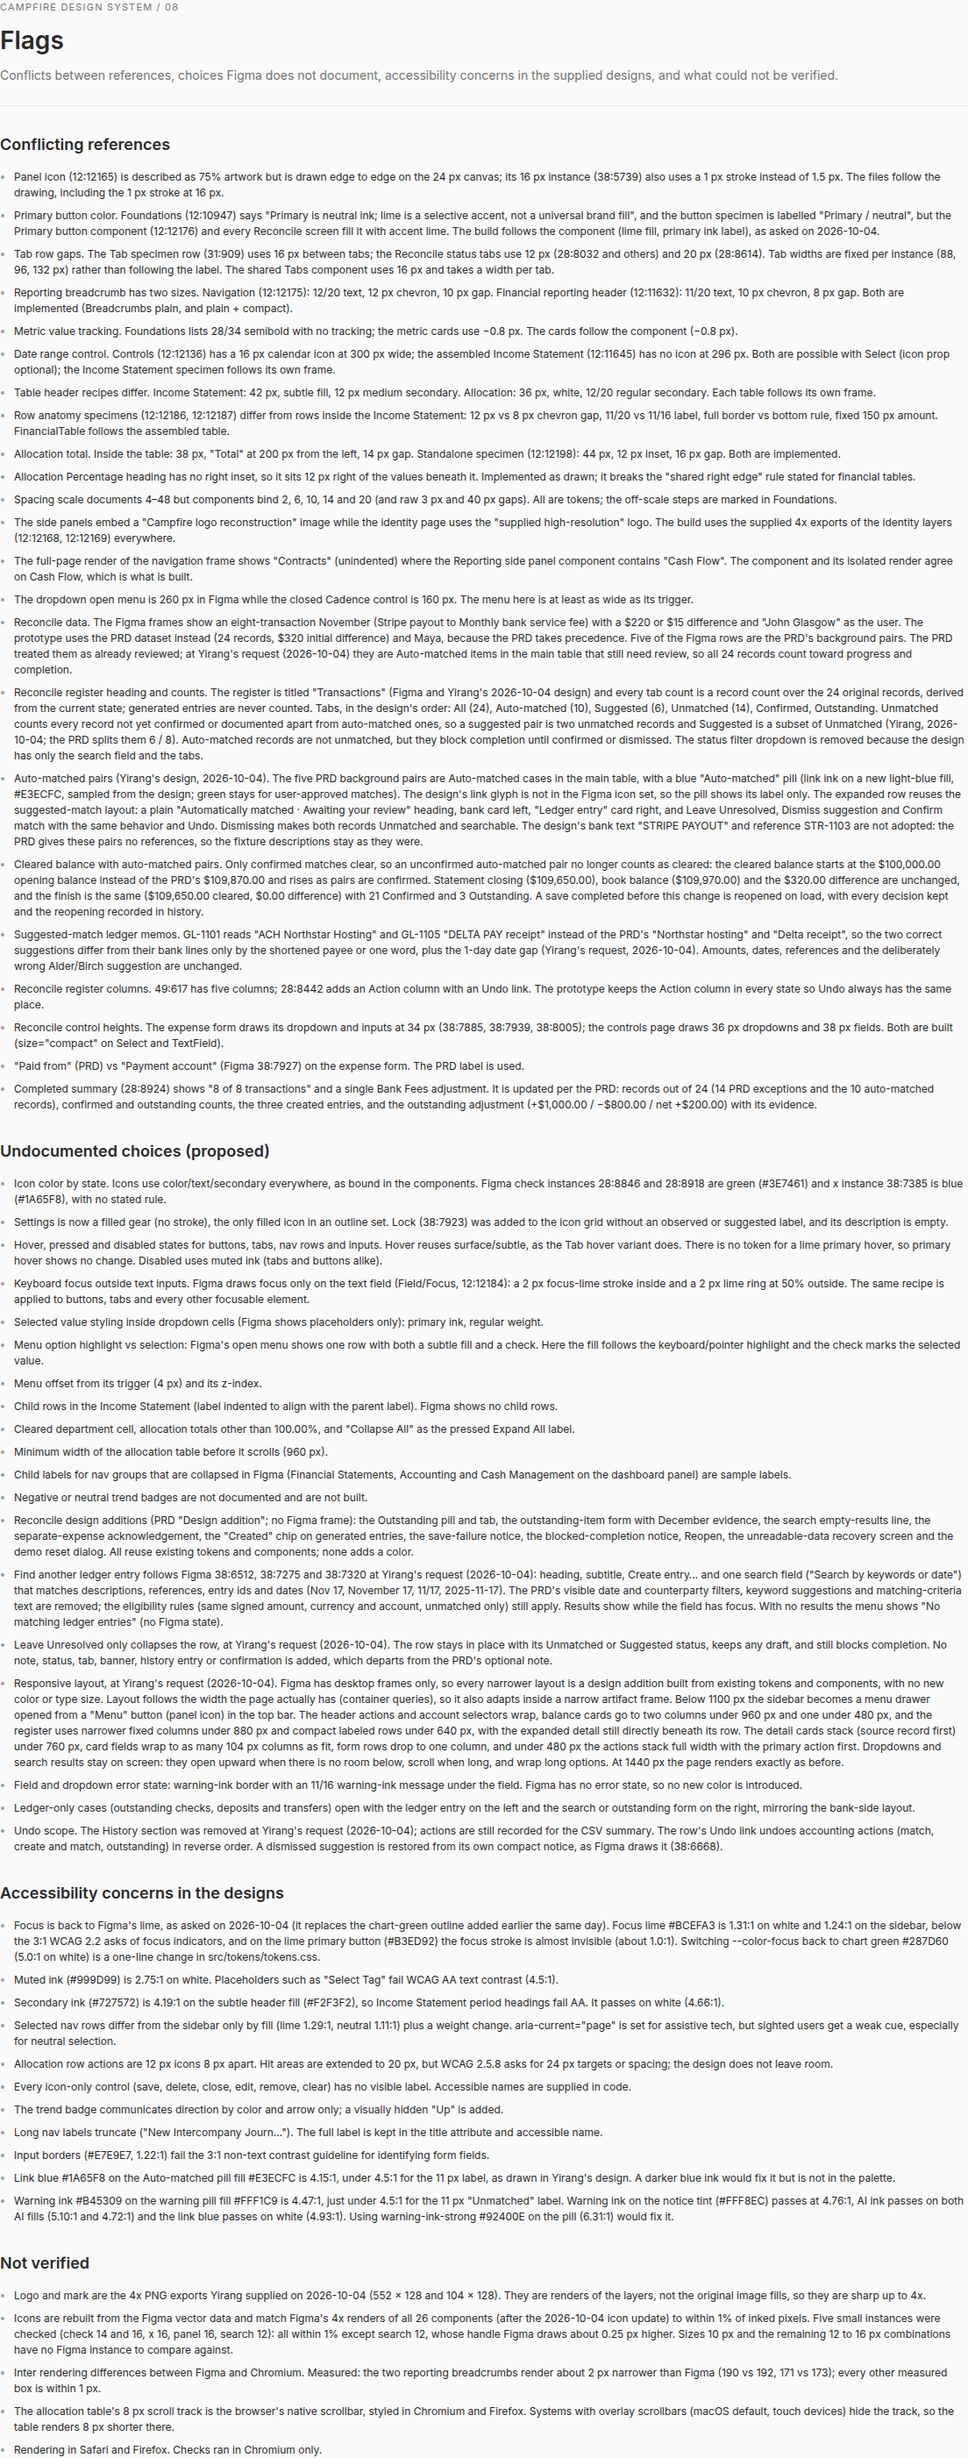
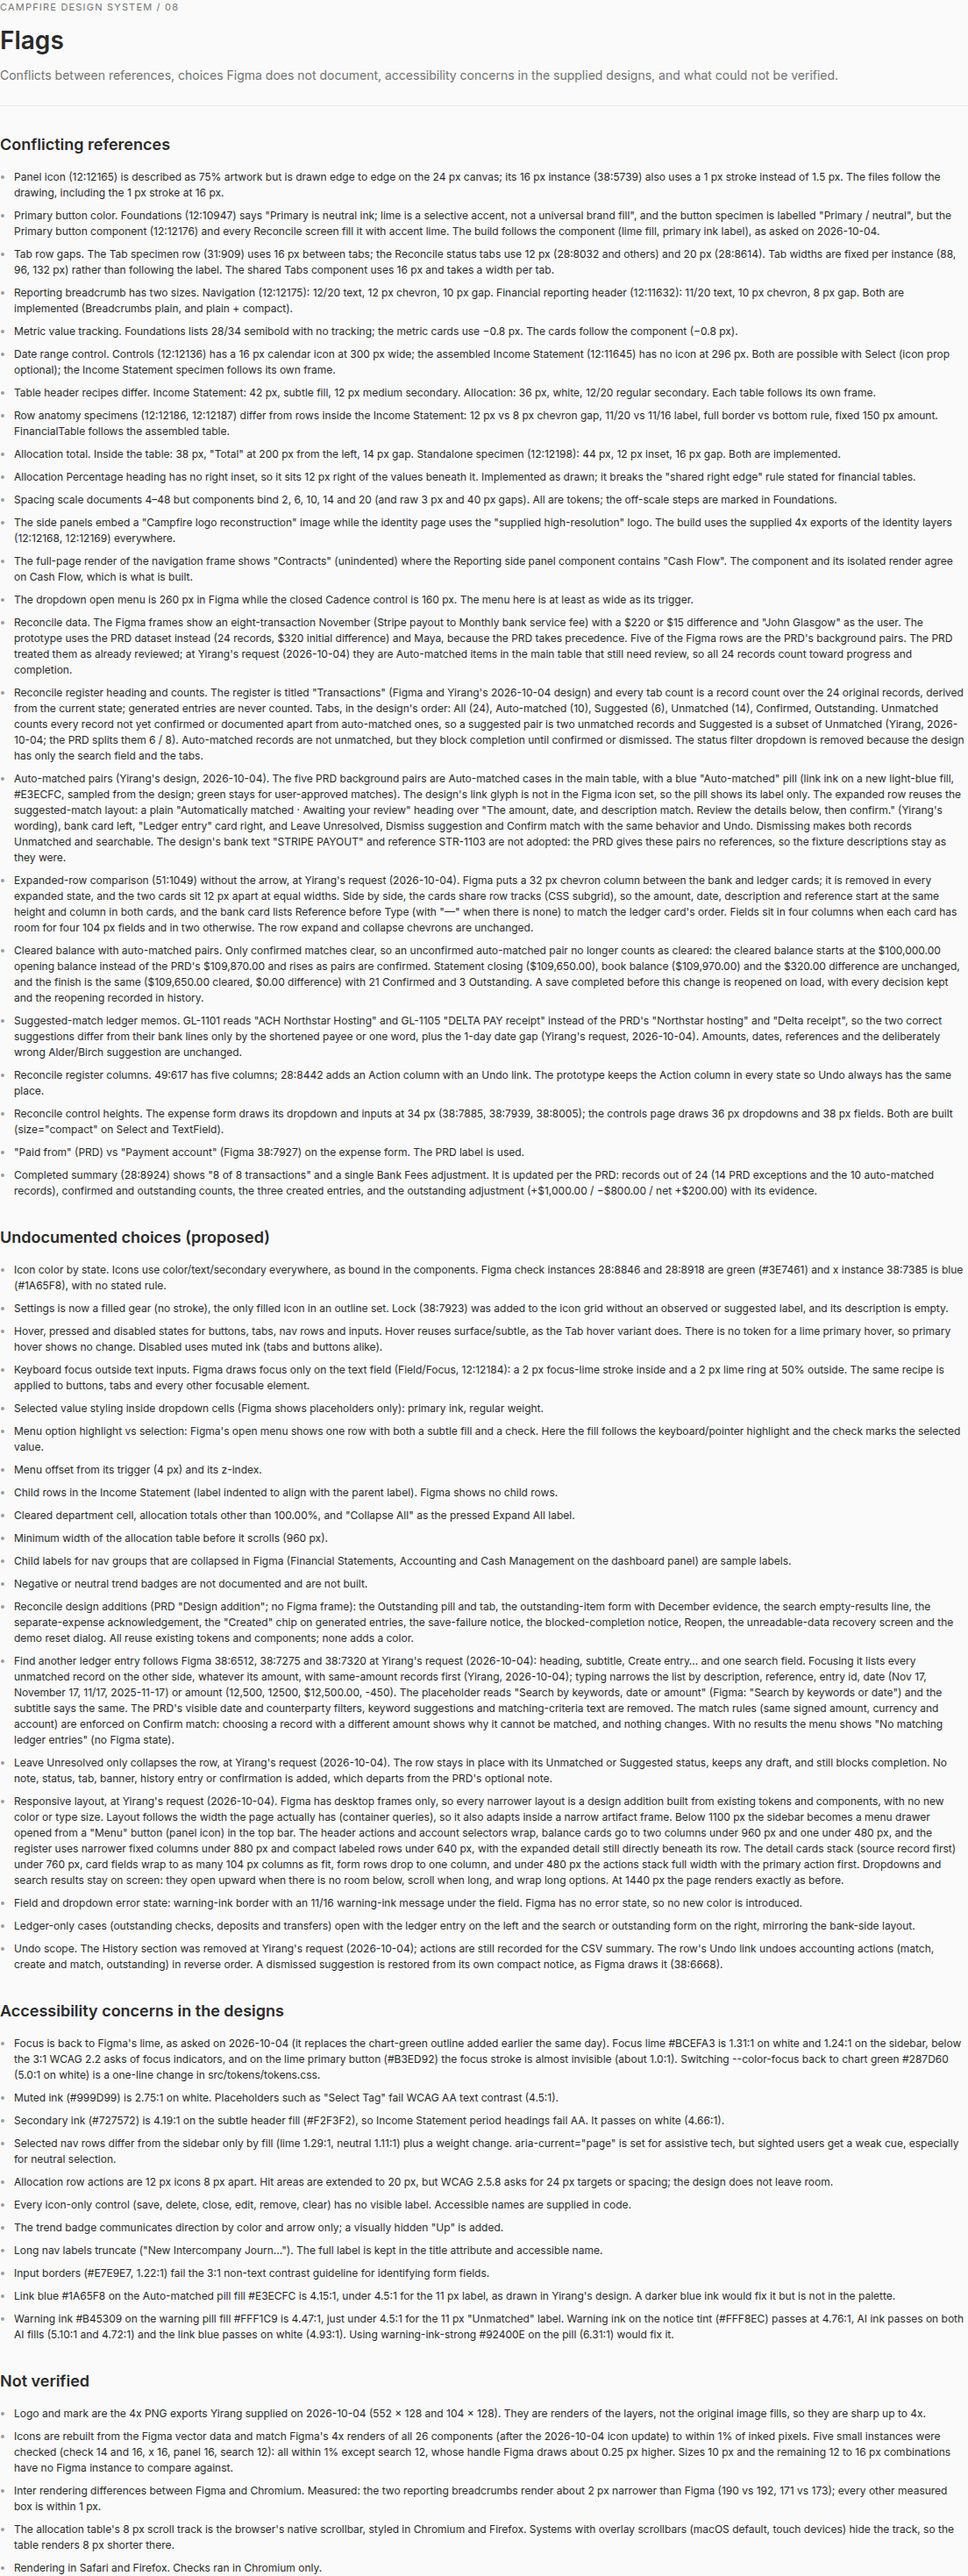
Reword the auto-matched introduction
Auto-matched rows now read "The amount, date, and description match.
Review the details below, then confirm." under the existing heading.

Claude-Session: https://claude.ai/code/session_01SjmuwsjrTUXEVeGEdoK4rk

Changed region(s): [[0.0, 0.0, 1.0, 1.0]]

diff --git a/src/showcase/flags.ts b/src/showcase/flags.ts
@@ -17,7 +17,7 @@ export const CONFLICTS = [
   'The dropdown open menu is 260 px in Figma while the closed Cadence control is 160 px. The menu here is at least as wide as its trigger.',
   'Reconcile data. The Figma frames show an eight-transaction November (Stripe payout to Monthly bank service fee) with a $220 or $15 difference and "John Glasgow" as the user. The prototype uses the PRD dataset instead (24 records, $320 initial difference) and Maya, because the PRD takes precedence. Five of the Figma rows are the PRD\'s background pairs. The PRD treated them as already reviewed; at Yirang\'s request (2026-10-04) they are Auto-matched items in the main table that still need review, so all 24 records count toward progress and completion.',
   'Reconcile register heading and counts. The register is titled "Transactions" (Figma and Yirang\'s 2026-10-04 design) and every tab count is a record count over the 24 original records, derived from the current state; generated entries are never counted. Tabs, in the design\'s order: All (24), Auto-matched (10), Suggested (6), Unmatched (14), Confirmed, Outstanding. Unmatched counts every record not yet confirmed or documented apart from auto-matched ones, so a suggested pair is two unmatched records and Suggested is a subset of Unmatched (Yirang, 2026-10-04; the PRD splits them 6 / 8). Auto-matched records are not unmatched, but they block completion until confirmed or dismissed. The status filter dropdown is removed because the design has only the search field and the tabs.',
-  'Auto-matched pairs (Yirang\'s design, 2026-10-04). The five PRD background pairs are Auto-matched cases in the main table, with a blue "Auto-matched" pill (link ink on a new light-blue fill, #E3ECFC, sampled from the design; green stays for user-approved matches). The design\'s link glyph is not in the Figma icon set, so the pill shows its label only. The expanded row reuses the suggested-match layout: a plain "Automatically matched · Awaiting your review" heading, bank card left, "Ledger entry" card right, and Leave Unresolved, Dismiss suggestion and Confirm match with the same behavior and Undo. Dismissing makes both records Unmatched and searchable. The design\'s bank text "STRIPE PAYOUT" and reference STR-1103 are not adopted: the PRD gives these pairs no references, so the fixture descriptions stay as they were.',
+  'Auto-matched pairs (Yirang\'s design, 2026-10-04). The five PRD background pairs are Auto-matched cases in the main table, with a blue "Auto-matched" pill (link ink on a new light-blue fill, #E3ECFC, sampled from the design; green stays for user-approved matches). The design\'s link glyph is not in the Figma icon set, so the pill shows its label only. The expanded row reuses the suggested-match layout: a plain "Automatically matched · Awaiting your review" heading over "The amount, date, and description match. Review the details below, then confirm." (Yirang\'s wording), bank card left, "Ledger entry" card right, and Leave Unresolved, Dismiss suggestion and Confirm match with the same behavior and Undo. Dismissing makes both records Unmatched and searchable. The design\'s bank text "STRIPE PAYOUT" and reference STR-1103 are not adopted: the PRD gives these pairs no references, so the fixture descriptions stay as they were.',
   'Expanded-row comparison (51:1049) without the arrow, at Yirang\'s request (2026-10-04). Figma puts a 32 px chevron column between the bank and ledger cards; it is removed in every expanded state, and the two cards sit 12 px apart at equal widths. Side by side, the cards share row tracks (CSS subgrid), so the amount, date, description and reference start at the same height and column in both cards, and the bank card lists Reference before Type (with "—" when there is none) to match the ledger card\'s order. Fields sit in four columns when each card has room for four 104 px fields and in two otherwise. The row expand and collapse chevrons are unchanged.',
   'Cleared balance with auto-matched pairs. Only confirmed matches clear, so an unconfirmed auto-matched pair no longer counts as cleared: the cleared balance starts at the $100,000.00 opening balance instead of the PRD\'s $109,870.00 and rises as pairs are confirmed. Statement closing ($109,650.00), book balance ($109,970.00) and the $320.00 difference are unchanged, and the finish is the same ($109,650.00 cleared, $0.00 difference) with 21 Confirmed and 3 Outstanding. A save completed before this change is reopened on load, with every decision kept and the reopening recorded in history.',
   'Suggested-match ledger memos. GL-1101 reads "ACH Northstar Hosting" and GL-1105 "DELTA PAY receipt" instead of the PRD\'s "Northstar hosting" and "Delta receipt", so the two correct suggestions differ from their bank lines only by the shortened payee or one word, plus the 1-day date gap (Yirang\'s request, 2026-10-04). Amounts, dates, references and the deliberately wrong Alder/Birch suggestion are unchanged.',

diff --git a/prototype/src/domain/fixture.ts b/prototype/src/domain/fixture.ts
@@ -144,7 +144,7 @@ export const AUTO_MATCHES: Suggestion[] = (
   bankId,
   ledgerId,
   headline: 'Automatically matched · Awaiting your review',
-  detail: 'Review the bank transaction and ledger entry, then confirm the match.',
+  detail: 'The amount, date, and description match. Review the details below, then confirm.',
   signals: [],
 }))
 

diff --git a/docs/design-flags.md b/docs/design-flags.md
@@ -20,7 +20,7 @@ Conflicts in the Figma references, choices Figma does not document, accessibilit
 - The dropdown open menu is 260 px in Figma while the closed Cadence control is 160 px. The menu here is at least as wide as its trigger.
 - Reconcile data. The Figma frames show an eight-transaction November (Stripe payout to Monthly bank service fee) with a $220 or $15 difference and "John Glasgow" as the user. The prototype uses the PRD dataset instead (24 records, $320 initial difference) and Maya, because the PRD takes precedence. Five of the Figma rows are the PRD's background pairs. The PRD treated them as already reviewed; at Yirang's request (2026-10-04) they are Auto-matched items in the main table that still need review, so all 24 records count toward progress and completion.
 - Reconcile register heading and counts. The register is titled "Transactions" (Figma and Yirang's 2026-10-04 design) and every tab count is a record count over the 24 original records, derived from the current state; generated entries are never counted. Tabs, in the design's order: All (24), Auto-matched (10), Suggested (6), Unmatched (14), Confirmed, Outstanding. Unmatched counts every record not yet confirmed or documented apart from auto-matched ones, so a suggested pair is two unmatched records and Suggested is a subset of Unmatched (Yirang, 2026-10-04; the PRD splits them 6 / 8). Auto-matched records are not unmatched, but they block completion until confirmed or dismissed. The status filter dropdown is removed because the design has only the search field and the tabs.
-- Auto-matched pairs (Yirang's design, 2026-10-04). The five PRD background pairs are Auto-matched cases in the main table, with a blue "Auto-matched" pill (link ink on a new light-blue fill, #E3ECFC, sampled from the design; green stays for user-approved matches). The design's link glyph is not in the Figma icon set, so the pill shows its label only. The expanded row reuses the suggested-match layout: a plain "Automatically matched · Awaiting your review" heading, bank card left, "Ledger entry" card right, and Leave Unresolved, Dismiss suggestion and Confirm match with the same behavior and Undo. Dismissing makes both records Unmatched and searchable. The design's bank text "STRIPE PAYOUT" and reference STR-1103 are not adopted: the PRD gives these pairs no references, so the fixture descriptions stay as they were.
+- Auto-matched pairs (Yirang's design, 2026-10-04). The five PRD background pairs are Auto-matched cases in the main table, with a blue "Auto-matched" pill (link ink on a new light-blue fill, #E3ECFC, sampled from the design; green stays for user-approved matches). The design's link glyph is not in the Figma icon set, so the pill shows its label only. The expanded row reuses the suggested-match layout: a plain "Automatically matched · Awaiting your review" heading over "The amount, date, and description match. Review the details below, then confirm." (Yirang's wording), bank card left, "Ledger entry" card right, and Leave Unresolved, Dismiss suggestion and Confirm match with the same behavior and Undo. Dismissing makes both records Unmatched and searchable. The design's bank text "STRIPE PAYOUT" and reference STR-1103 are not adopted: the PRD gives these pairs no references, so the fixture descriptions stay as they were.
 - Expanded-row comparison (51:1049) without the arrow, at Yirang's request (2026-10-04). Figma puts a 32 px chevron column between the bank and ledger cards; it is removed in every expanded state, and the two cards sit 12 px apart at equal widths. Side by side, the cards share row tracks (CSS subgrid), so the amount, date, description and reference start at the same height and column in both cards, and the bank card lists Reference before Type (with "—" when there is none) to match the ledger card's order. Fields sit in four columns when each card has room for four 104 px fields and in two otherwise. The row expand and collapse chevrons are unchanged.
 - Cleared balance with auto-matched pairs. Only confirmed matches clear, so an unconfirmed auto-matched pair no longer counts as cleared: the cleared balance starts at the $100,000.00 opening balance instead of the PRD's $109,870.00 and rises as pairs are confirmed. Statement closing ($109,650.00), book balance ($109,970.00) and the $320.00 difference are unchanged, and the finish is the same ($109,650.00 cleared, $0.00 difference) with 21 Confirmed and 3 Outstanding. A save completed before this change is reopened on load, with every decision kept and the reopening recorded in history.
 - Suggested-match ledger memos. GL-1101 reads "ACH Northstar Hosting" and GL-1105 "DELTA PAY receipt" instead of the PRD's "Northstar hosting" and "Delta receipt", so the two correct suggestions differ from their bank lines only by the shortened payee or one word, plus the 1-day date gap (Yirang's request, 2026-10-04). Amounts, dates, references and the deliberately wrong Alder/Birch suggestion are unchanged.
